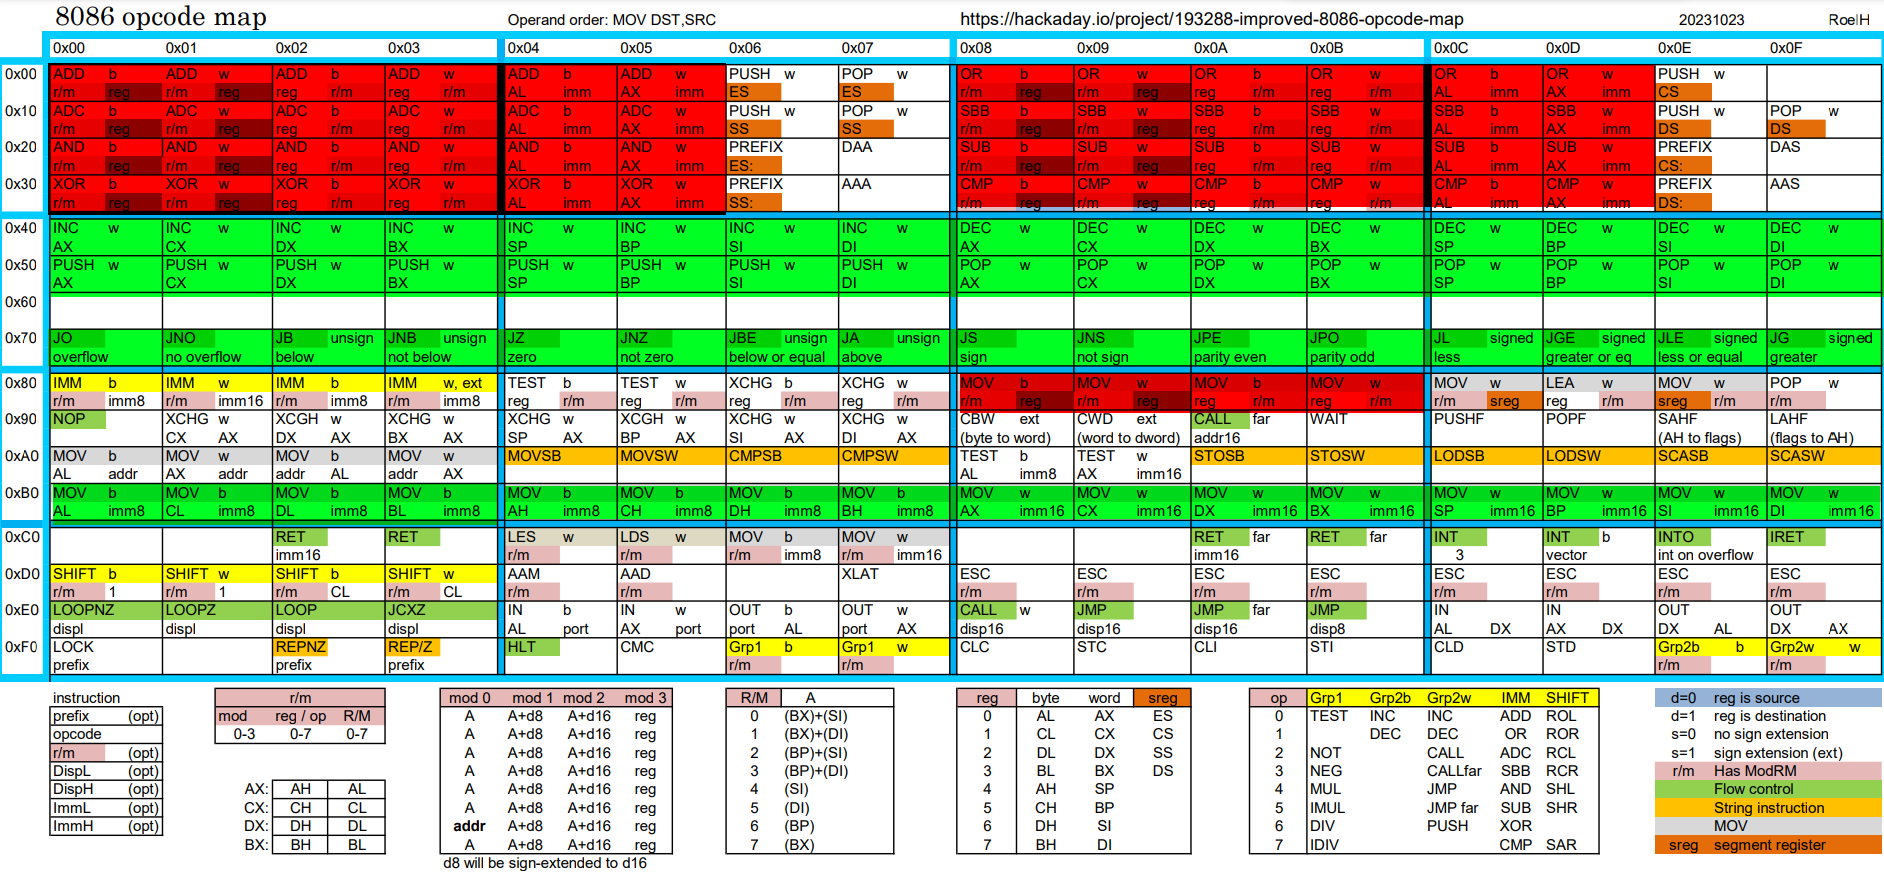
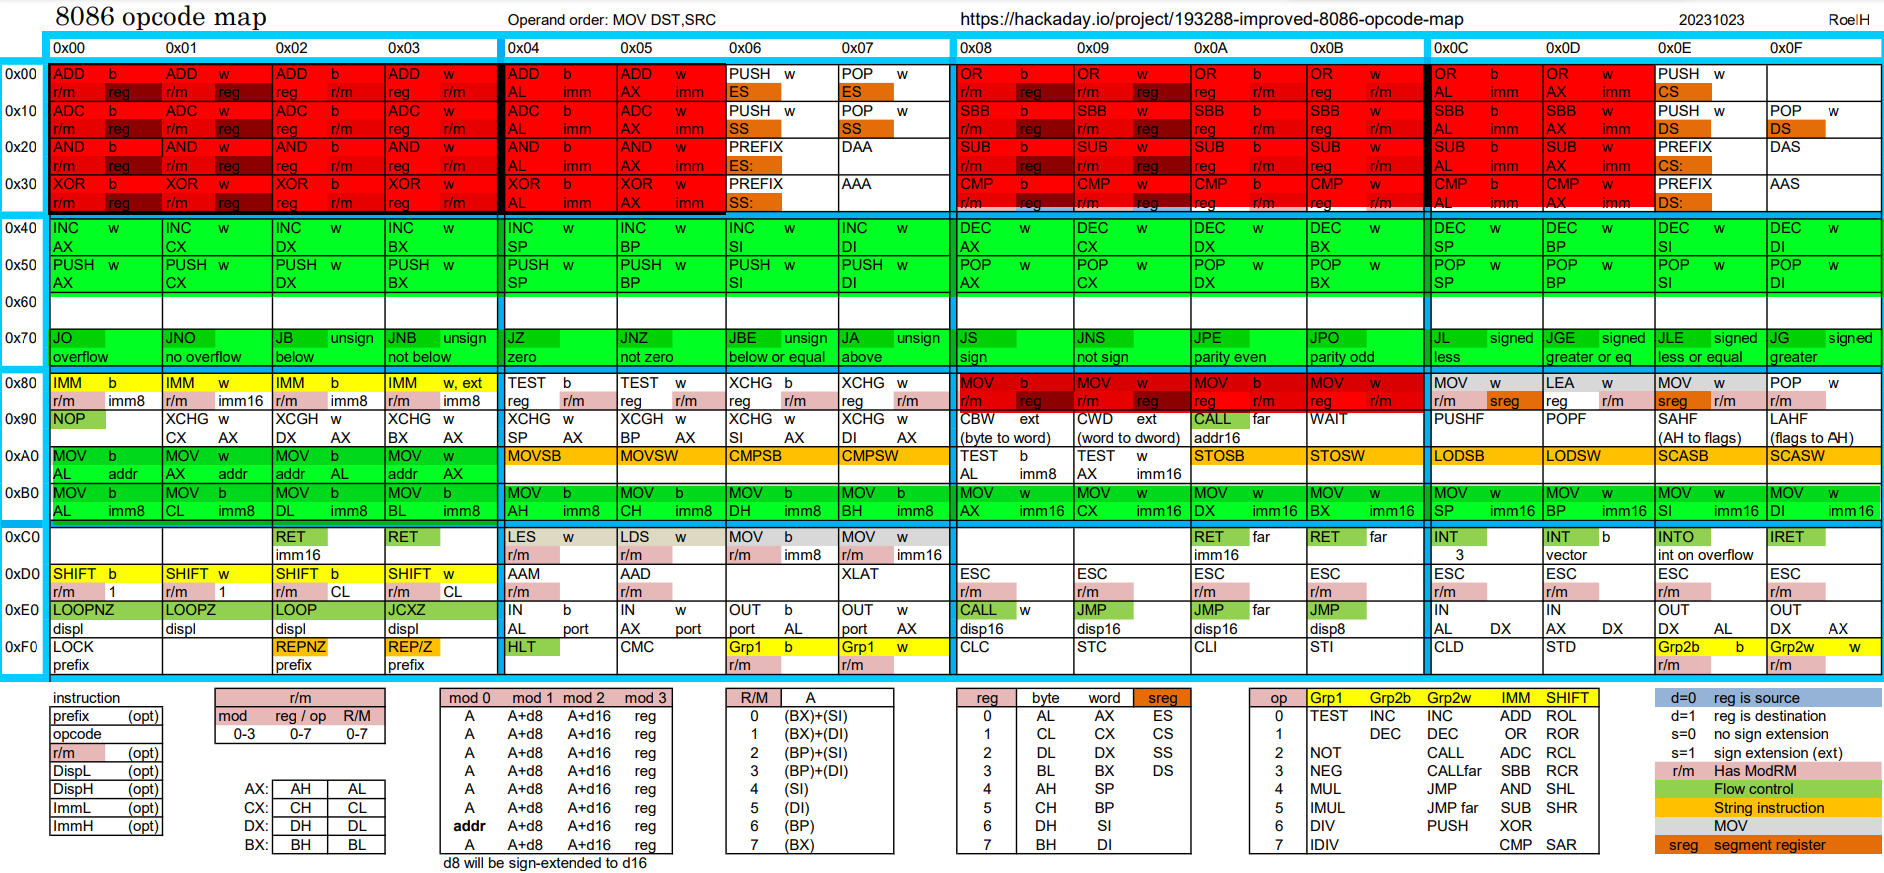
Got a little side-tracked, implemented instructions A0-A3, tested well too

Changed region(s): [[0.0308, 0.4948, 0.2771, 0.5567]]

diff --git a/tinyvm/sand/cpu8086.c b/tinyvm/sand/cpu8086.c
@@ -125,8 +125,8 @@ static void put8(cpu8086_t* cpu, const uint32_t addr, const uint16_t what) {
 /*
   SAFE 1MB ACCESS. 8 bit equivalent of mem_get16(), but there is ofc no need for unaligned checks.
 */
-static uint8_t* mem_get8(cpu8086_t* cpu, uint32_t addr) {
-  addr = regseg_imm(cpu, addr, GET_SEG_DS(cpu)->x); /* Combine with the sreg */
+static uint8_t* mem_get8(cpu8086_t* cpu, uint32_t addr, const int defs) {
+  addr = regseg_imm(cpu, addr, get_seg(cpu, defs)->x); /* Combine with the sreg */
 
   if (addr >= MB1) {
     cpu->e = E8086_ACCESS_VIOLATION;
@@ -143,23 +143,26 @@ static uint8_t* mem_get8(cpu8086_t* cpu, uint32_t addr) {
 */
 static uint16_t get16(cpu8086_t* cpu, uint32_t addr) {
   uint16_t ret;
+  uint8_t* p = cpu->mem->bytes + addr;
 
   if (addr >= MB1 - 1) {
     cpu->e = E8086_ACCESS_VIOLATION;
     return 0;
   }
   
-  memcpy(&ret, cpu->mem->bytes + addr, 2);
+  ret = (uint16_t)p[0] | ((uint16_t)(p[1]) << 8);
+
   return ret;
 }
 /*
   SAFE 1MB ACCESS. Get direct ptr of CPU->mem[ADDR]. Preffered over raw access for: safety(will 
   CPU->e and return undefined but non NULL/unsafe address) & easier for unaligned access.
   Emulates memory access.
+  DEFS must be REG8086_*, it's the default sreg used, pop needs mem_get8/16() + regular addressing.
   As mentioned above, may set CPU->e to E8086_ACCESS_VIOLATION, or E8086_UNALIGNED.
 */
-static uint16_t* mem_get16(cpu8086_t* cpu, uint32_t addr) {
-  addr = regseg_imm(cpu, addr, GET_SEG_DS(cpu)->x); /* Combine with the sreg */
+static uint16_t* mem_get16(cpu8086_t* cpu, uint32_t addr, const int defs) {
+  addr = regseg_imm(cpu, addr, get_seg(cpu, defs)->x); /* Combine with the sreg */
 
   if (addr >= MB1 - 1) {
     cpu->e = E8086_ACCESS_VIOLATION;
@@ -167,9 +170,10 @@ static uint16_t* mem_get16(cpu8086_t* cpu, uint32_t addr) {
   }
   else if (addr & 1) {
     cpu->e = E8086_UNALIGNED;
+    addr &= ~1;
   }
   
-  return (uint16_t*)(cpu->mem->bytes + (addr ^ 1));
+  return (uint16_t*)(cpu->mem->bytes + addr);
 }
 /*
   SAFE 1MB ACCESS. Set CPU->mem[ADDR] = what. Preffered over raw access for: safety(will CPU->e 
@@ -177,12 +181,17 @@ static uint16_t* mem_get16(cpu8086_t* cpu, uint32_t addr) {
   As mentioned above, may set CPU->e to E8086_ACCESS_VIOLATION.
 */
 static void put16(cpu8086_t* cpu, const uint32_t addr, const uint16_t what) {
+  uint8_t* p = cpu->mem->bytes + addr;
+
   if (addr >= MB1 - 1) {
     cpu->e = E8086_ACCESS_VIOLATION;
     return;
   }
   
-  memcpy(cpu->mem->bytes + addr, &what, 2);
+  /* memcpy(cpu->mem->bytes + addr, &what, 2); */
+
+  p[0] = what;
+  p[1] = what >> 8;
 }
 
 /*
@@ -190,7 +199,7 @@ static void put16(cpu8086_t* cpu, const uint32_t addr, const uint16_t what) {
   May set CPU->e to E8086_ACCESS_VIOLATION if the stack wrapped around and wont push. Uses regseg() so may set to its errors.
 */
 static void push16(cpu8086_t* cpu, const uint16_t x) {
-  uint32_t stack_ptr = REGSEG_SP_SS(cpu);
+  uint32_t stack_ptr = regseg_imm(cpu, cpu->regs[REG8086_SP].x, GET_SEG_SS(cpu)->x);
 
   stack_ptr -= 2; /* Since gotta first decrement */
   regseg_sub(&cpu->regs[REG8086_SP], GET_SEG_SS(cpu), 2);
@@ -206,10 +215,10 @@ static void push16(cpu8086_t* cpu, const uint16_t x) {
 */
 static uint16_t pop16(cpu8086_t* cpu) {
   uint16_t ret;
-  uint32_t stack_ptr = REGSEG_SP_SS(cpu);
+  uint32_t stack_ptr = regseg_imm(cpu, cpu->regs[REG8086_SP].x, GET_SEG_SS(cpu)->x);
 
   /* Copy the content before modifying stack_ptr */
-  ret = *mem_get16(cpu, stack_ptr);
+  ret = *mem_get16(cpu, stack_ptr, REG8086_SS);
 
   /* Add 2 back */
   regseg_add(&cpu->regs[REG8086_SP], GET_SEG_SS(cpu), 2);
@@ -440,10 +449,10 @@ static int srcdst_0030(cpu8086_t* cpu, void** dst, void** src) {
   else if ((modrm & MODRM_MOD_MASK) == MOD_NDISP && (modrm & MODRM_RM_MASK) == RM_BP) {
     uint32_t addr = regseg_imm(cpu, get16(cpu, cpu->ip_cs + 2), cpu->regs[REG8086_DS].x);
     if (w_bit) {
-      *src = mem_get16(cpu, addr);
+      *src = mem_get16(cpu, addr, REG8086_DS);
     }
     else {
-      *src = mem_get8(cpu, addr);
+      *src = mem_get8(cpu, addr, REG8086_DS);
     }
     cpu->ip_add = 4;
   }
@@ -488,6 +497,11 @@ int cycle_cpu8086(cpu8086_t* cpu) {
     case 0x3E:
     cpu->seg = REG8086_DS;
     break;
+  }
+  if (cpu->seg != REG8086_NULL) {
+    REGSEG_IP_CS_ADD(cpu, 1);
+    cpu->ip_cs = REGSEG_IP_CS(cpu);
+    cpu->i_ptr = mem->bytes + cpu->ip_cs;
   }
 
   /* INC R16 */
@@ -545,6 +559,34 @@ int cycle_cpu8086(cpu8086_t* cpu) {
       cpu->cycles += 4;
     }
   }
+  /* MOV AL/AX, ADDR or MOV ADDR, AL/AX. So much hard-wired stuff man. */
+  else if (cpu->i_ptr[0] >= 0xA0 && cpu->i_ptr[0] <= 0xA3) {
+    uint8_t d_bit = (cpu->i_ptr[0] & 0x2) >> 1;
+    uint8_t w_bit = cpu->i_ptr[0] & 0x1;
+    uint16_t addr = get16(cpu, cpu->ip_cs + 1);
+    void* ax_al = &cpu->regs[REG8086_AX]; /* Little-endian magic */
+    /* XXX: I hate the way it looks. */
+    if (d_bit) {
+      if (w_bit) {
+        *mem_get16(cpu, addr, REG8086_DS) = *(uint16_t*)ax_al;
+      }
+      else {
+        *mem_get8(cpu, addr, REG8086_DS) = *(uint8_t*)ax_al;
+      }
+    }
+    else {
+      if (w_bit) {
+        *(uint16_t*)ax_al = *mem_get16(cpu, addr, REG8086_DS);
+      }
+      else {
+        *(uint8_t*)ax_al = *mem_get8(cpu, addr, REG8086_DS);
+      }
+    }
+
+    cpu->ip_add = 3;
+    cpu->cycles += 10;
+  }
+  /* UNKNOWN! */
   else {
     if (cpu->i_ptr[0] == 0x66 || cpu->i_ptr[0] == 0x67) {
       fputs("cycle_cpu8086(): you'll need i386 for that.", stderr);
@@ -552,7 +594,6 @@ int cycle_cpu8086(cpu8086_t* cpu) {
     cpu->cycles += 1;
   }
 
-  /*regseg_add(&cpu->regs[REG8086_IP], &cpu->regs[REG8086_CS], cpu->ip_add);*/
   REGSEG_IP_CS_ADD(cpu, cpu->ip_add);
   return cpu->e != E8086_OK;
 }
@@ -658,8 +699,12 @@ static void test_cycling0(void) {
 
   HOPE_THAT(!cycle_cpu8086(&cpu), "No error.");
   HOPE_THAT(
-    cpu.regs[REG8086_BX].x == 0x4269 && cpu.regs[REG8086_SP].x == 0xFFFE,
-    "POP BX => BX=0x4269 && SP is back."
+    cpu.regs[REG8086_BX].x == 0x4269,
+    "POP BX => BX=0x4269"
+  );
+  HOPE_THAT(
+    cpu.regs[REG8086_SP].x == 0xFFFE,
+    "SP is back."
   );
   
   HOPE_THAT(!cycle_cpu8086(&cpu), "No error.");
@@ -675,6 +720,79 @@ static void test_cycling0(void) {
   );
 
   free_mem(&mem);
+}
+
+/* Tests the mov instructions at 0xA0-0xA3 */
+static void test_a0a3_and_sreg_prefix(void) {
+  cpu8086_t cpu;
+  mem_t mem;
+  const uint8_t code[] = {
+    0x2E, 0xA1, 0x00, 0x10, /* MOV AX, CS:[0x1000] */
+    0x2E, 0xA0, 0x01, 0x10, /* MOV AL, CS:[0x1001] */
+    0x2E, 0xA3, 0x00, 0x10, /* MOV CS:[0x1000], AX */
+    0x3E, 0x50, /* DS:PUSH AX */
+    0x3E, 0x50, /* DS:PUSH AX */
+    0x5B, /* POP BX, no prefix for tests. */
+    0x3E, 0x5B /* DS:POP BX, correct one this time. */
+  };
+
+  HOPE_THAT(
+    init_mem8086(&mem, 0),
+    "Memory initialized."
+  );
+
+  HOPE_THAT(
+    reset_cpu8086(&cpu, &mem),
+    "CPU initialized."
+  );
+  /* Force custom config on some registers for testing purposes */
+  cpu.regs[REG8086_SS].x = 0xF000;
+  cpu.regs[REG8086_DS].x = 0xC000;
+  cpu.regs[REG8086_SP].x = 4; /* To make life easier */
+  cpu.regs[REG8086_CS].x = 0xA000;
+  cpu.regs[REG8086_IP].x = 0;
+  
+  mem.bytes[0xA1000] = 0x33;
+  mem.bytes[0xA1001] = 0x44;
+
+  memcpy(mem.bytes + 0xA0000, code, sizeof (code));
+
+  HOPE_THAT(!cycle_cpu8086(&cpu), "No error.");
+  HOPE_THAT(
+    cpu.regs[REG8086_AX].x == 0x4433,
+    "MOV AX, CS:[0x1000] => AX=0x4433"
+  );
+
+  HOPE_THAT(!cycle_cpu8086(&cpu), "No error.");
+  HOPE_THAT(
+    cpu.regs[REG8086_AX].x == 0x4444,
+    "MOV AL, CS:[0x1001] => AX=0x4444"
+  );
+
+  HOPE_THAT(!cycle_cpu8086(&cpu), "No error.");
+  HOPE_THAT(
+    mem.bytes[0xA1000] == 0x44 && mem.bytes[0xA1001] == 0x44,
+    "MOV CS:[0x1000], AX(0x4444)"
+  );
+
+  HOPE_THAT(!cycle_cpu8086(&cpu), "No error.");
+  HOPE_THAT(!cycle_cpu8086(&cpu), "No error.");
+  HOPE_THAT(
+    cpu.regs[REG8086_SP].x == 0,
+    "SP should be 0 now."
+  );
+
+  HOPE_THAT(!cycle_cpu8086(&cpu), "No error.");
+  HOPE_THAT(
+    cpu.regs[REG8086_BX].x != 0x4444,
+    "Wrong segment register used so BX shouldn't be 0x4444."
+  );
+
+  HOPE_THAT(!cycle_cpu8086(&cpu), "No error.");
+  HOPE_THAT(
+    cpu.regs[REG8086_BX].x == 0x4444,
+    "Correct segment register used so BX should be 0x4444."
+  );
 }
 
 /* Tests update_flags() and its related *_ins() functions. */
@@ -794,5 +912,6 @@ void add_cpu8086_tests(void) {
   ADD_TEST(test_regseg);
   ADD_TEST(test_update_flags);
   ADD_TEST(test_cycling0);
+  ADD_TEST(test_a0a3_and_sreg_prefix);
   ADD_TEST(test_parity_table);
 }
